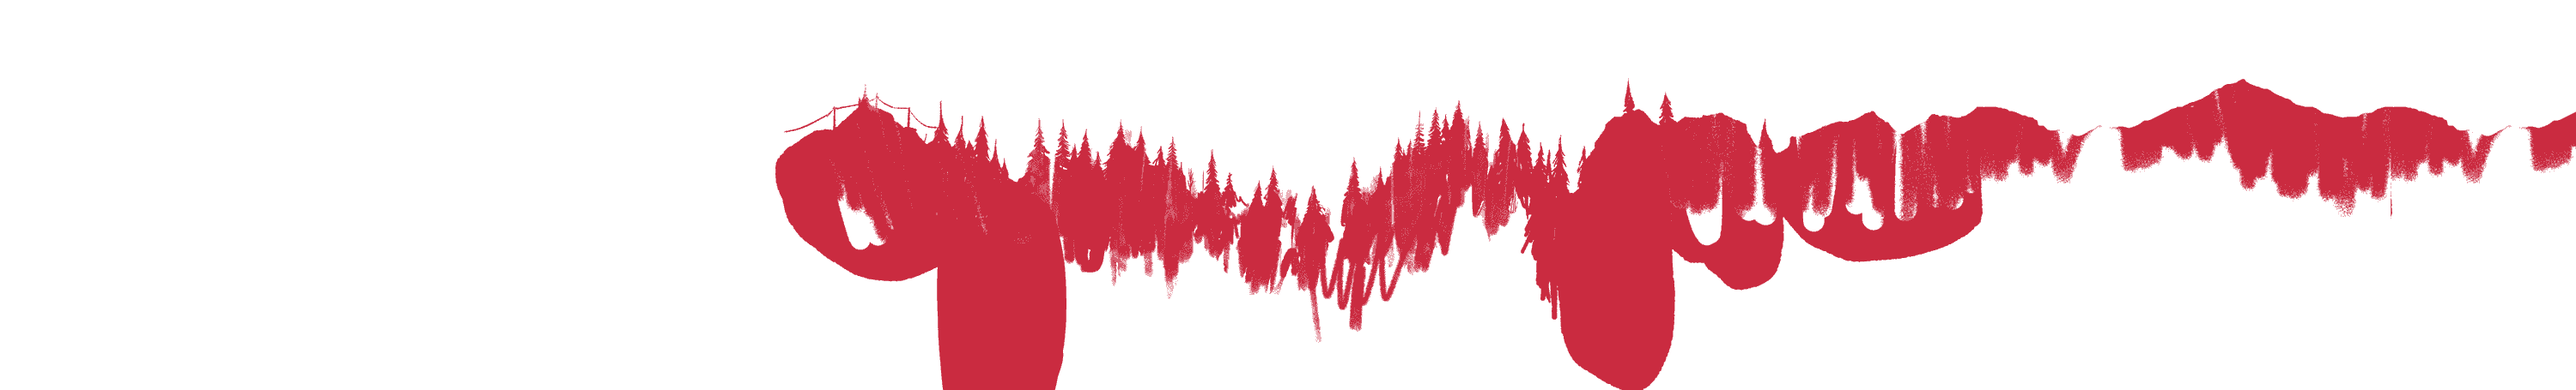
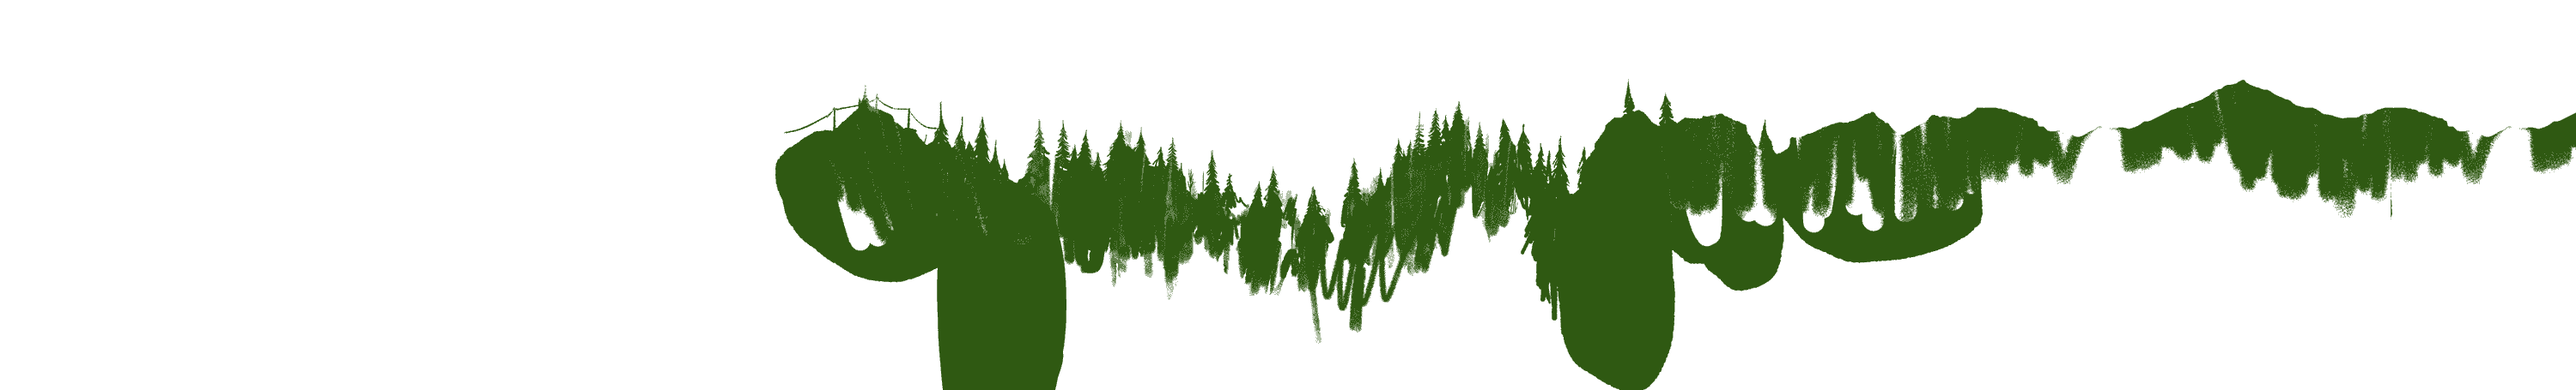
lol

Changed region(s): [[0.279, 0.2154, 1.0, 1.0]]

diff --git a/index.html b/index.html
@@ -76,12 +76,13 @@
 		</div>
 		<div class="collapse navbar-collapse">
 			<ul class="nav navbar-nav navbar-right">
+				<li><a href="#parallax" class="smoothScroll"></a></li>
 				<li><a href="#home" class="smoothScroll">HOME</a></li>
-				<li><a href="#about" class="smoothScroll">ABOUT</a></li>
-				<li><a href="#team" class="smoothScroll">TEAM</a></li>
+				<li><a href="#about" class="smoothScroll">FEATURES</a></li>
+				<li><a href="#team" class="smoothScroll">EQUIPMENT</a></li>
 				<li><a href="#memes" class="smoothScroll">IMAGES</a></li>
-				<li><a href="#download" class="smoothScroll">DOWNLOAD PDF</a></li>
 				<li><a href="#media" class="smoothScroll">WHY?</a></li>
+				<li><a href="#download" class="smoothScroll">DOWNLOAD PDF</a></li>
 				<li><a href="#contact" class="smoothScroll">SUPPORT</a></li>
 			</ul>
 		</div>
@@ -117,7 +118,7 @@
 	  					<div class="parallax__cover">
 								<div class="center" align = "center">
 									<h3>GROUP 6</h3>
-									<h1>VISTA -HILLS</h1>
+									<h1>VISTA - HILLS</h1>
 									<hr>
 									<h3><i>"Living and learning in a 21<sup>st</sup> century cultureof innovation and collaboration,</i></h3>
 									<h3><i> with a foundation of solid character and strong community."</i></h3>
@@ -137,8 +138,8 @@
 			<div class="col-md-12 col-sm-12">
 				<div align = "center" class="section-title">
 					<strong>01</strong>
-					<h1 align = "center" class="heading bold">Innovating the field of playground design.</h1>
-					<hr>
+					<h1 align = "center" class="heading bold">Key Features</h1>
+					<hr algin = "left">
 				</div>
 			</div>
 			<div class="col-lg-4 col-md-4 col-sm-4 wow fadeInUp" data-wow-delay="0.25s">
@@ -150,31 +151,31 @@
 
 			</div>
 			<div class="col-lg-4 col-md-4 col-sm-4 wow fadeInUp" data-wow-delay="0.5s">
-				<i class="icon-mobile medium-icon"></i>
+				<i class="icon-cloud medium-icon"></i>
 					<h3>DISRUPTIVE </h3>
 					<hr>
 					<p>Unlike anything seen before.</p>
 			</div>
 			<div class="col-lg-4 col-md-4 col-sm-4 wow fadeInUp" data-wow-delay="0.75s">
-				<i class="icon-laptop medium-icon"></i>
+				<i class="icon-cloud medium-icon"></i>
 					<h3>UNPARALLELED QUALITY</h3>
 					<hr>
 					<p>Only the best of the best materials.Sourced from the best companies.</p>
 			</div>
 			<div class="col-lg-4 col-md-4 col-sm-4 wow fadeInUp" data-wow-delay="1s">
-				<i class="icon-compass medium-icon"></i>
+				<i class="icon-cloud medium-icon"></i>
 					<h3>MORAL COMPASS</h3>
 					<hr>
 					<p>Adheres to all CSA and Waterloo School Board guidelines.</p>
 			</div>
 				<div class="col-lg-4 col-md-4 col-sm-4 wow fadeInUp" data-wow-delay="1.25s">
-					<i class="icon-chat medium-icon"></i>
+					<i class="icon-cloud medium-icon"></i>
 					<h3>SOCIAL MEDIA</h3>
 					<hr>
 					<p>Keeping you up to date with our website.</p>
 				</div>
 			<div class="col-lg-4 col-md-4 col-sm-4 wow fadeInUp" data-wow-delay="1.5s">
-				<i class="icon-browser medium-icon"></i>
+				<i class="icon-cloud medium-icon"></i>
 					<h3>DISRUPTIVE COMMUNITY</h3>
 					<hr>
 					<p>Disrupting the current trend of typical playgrounds.</p>
@@ -195,15 +196,23 @@
 			<div class="col-md-12 col-sm-12">
 				<div align = "center" class="section-title">
 					<strong>02</strong>
-					<h1 align = "center" class="heading bold">TALENTED INNOVATORS</h1>
+					<h1 align = "center" class="heading bold">Equipment</h1>
 					<hr>
 				</div>
 			</div>
 			<div class="col-md-3 col-sm-6 wow fadeIn" data-wow-delay="0.9s">
 				<div class="team-wrapper">
-					<img src="images/portfolio-img3.jpg" class="img-responsive" alt="team img">
+					<img src="images/saddlespinner.jpg" class="img-responsive" alt="team img">
 						<div class="team-des">
-							<h4><a href=".html">Stephen</a></h4>
+							<h4><a href = "https://www.playlsi.com/en/commercial-playground-equipment/playground-components/saddle-spinner">Saddle Spinner</a></h4>
+							<h3>Zhao</h3>
+							<h3>Zhao</h3>
+							<h3>Zhao</h3>
+							<h3>Zhao</h3>
+							<h3>Zhao</h3>
+							<h3>Zhao</h3>
+							<h3>Zhao</h3>
+							<h3>Zhao</h3>
 							<h3>Zhao</h3>
 							<hr>
 						</div>
@@ -211,9 +220,9 @@
 			</div>
 			<div class="col-md-3 col-sm-6 wow fadeIn" data-wow-delay="1.3s">
 				<div class="team-wrapper">
-					<img src="images/portfolio-img1.jpg" class="img-responsive" alt="team img">
+					<img src="images/spintree.jpg" class="img-responsive" alt="team img">
 						<div class="team-des">
-							<h4><a href=".html">Aaron</a></h4>
+							<h4><a href="http://www.hendersonplay.ca/componentsDetails.php?module=95-200-080#">Cone Roundabout</a></h4>
 							<h3>Dai</h3>
 							<hr>
 						</div>
@@ -281,7 +290,7 @@
            				 </div>
 
            				 <div class="iso-box photoshop col-lg-4 col-md-4 col-sm-6">
-           				 	<a href="playground/garden.jpg"" data-lightbox-gallery="memes-gallery"><img src="playground/garden.jpg" alt="portfolio img"></a>
+           				 	<a href="playground/garden.jpg" data-lightbox-gallery="memes-gallery"><img src="playground/garden.jpg" alt="portfolio img"></a>
            				 </div>
 
            			</div>
@@ -292,75 +301,13 @@
 		</div>
 	</div>
 </div>
-
-<!-- downlaod section -->
-<section id="download">
-	<div class="container">
-		<div class="row">
-			<div class="col-md-12 col-sm-12 text-center">
-				<div align = "center" class="section-title">
-					<strong>04</strong>
-					<h1 class="heading bold">DOWNLOAD </h1>
-					<hr>
-				</div>
-			</div>
-			<div class="col-md-4 col-sm-6">
-				<div class="plan plan-one wow bounceIn" data-wow-delay="0.3s">
-					<div class="plan_title">
-						<i class="icon-desktop medium-icon"></i>
-						<h3>WINDOWS</h3>
-						<h2>Available <span>now!</span></h2>
-					</div>
-					<ul>
-            <li>For Vista-Hills</li>
-						<li>Cutting edge innovation</li>
-						<li>Disruptive</li>
-            <li>PDF compatability required</li>
-					</ul>
-
-						<form method="get" action=".html">
-							<button class="btn btn-warning" type="submit">Download!</button>
-						</form>
-
-				</div>
-			</div>
-			<div class="col-md-4 col-sm-6">
-				<div class="plan plan-two wow bounceIn" data-wow-delay="0.3s">
-					<div class="plan_title">
-						<i class="icon-genius medium-icon"></i>
-						<h3>MAC</h3>
-						<h2>Coming <span>soon!</span></h2>
-					</div>
-					<form method="get" action="download.html">
-						<button class="btn btn-warning" type="submit">Download!</button>
-					</form>
-
-				</div>
-			</div>
-			<div class="col-md-4 col-sm-6">
-				<div class="plan plan-three wow bounceIn" data-wow-delay="0.3s">
-					<div class="plan_title">
-						<i class="icon-mobile medium-icon"></i>
-						<h3>Mobile</h3>
-						<h2>Coming <span>soon!</span></h2>
-					</div>
-					<form method="get" action="download.html">
-						<button class="btn btn-warning" type="submit">Download!</button>
-					</form>
-
-				</div>
-			</div>
-		</div>
-	</div>
-</section>
-
-<!-- merch and goodies section -->
+<!-- media -->
 <section id="media">
 	<div class="container">
 		<div class="row">
 			<div class="col-md-12 col-sm-12 text-center">
 				<div class="section-title">
-					<strong>05</strong>
+					<strong>04</strong>
 					<h1 class="heading bold">WHY?</h1>
 					<hr>
 				</div>
@@ -389,6 +336,34 @@
 						<p>Never getting old.
 						</p>
 					</div>
+				</div>
+			</div>
+		</div>
+	</div>
+</section>
+
+<!-- downlaod section -->
+<section id="download">
+	<div class="container">
+		<div class="row">
+			<div class="col-md-12 col-sm-12 text-center">
+				<div align = "center" class="section-title">
+					<strong>05</strong>
+					<h1 class="heading bold">DOWNLOAD </h1>
+					<hr>
+				</div>
+			</div>
+			<div class="col-md-12 col-sm-12 text-center">
+				<div class="plan plan-two wow bounceIn" data-wow-delay="0.3s">
+					<div class="plan_title">
+						<i class="icon-mobile medium-icon"></i>
+						<h3>Preliminary Report</h3>
+						<h2>Download PDF <span></span></h2>
+					</div>
+					<form method="get" action="download.html">
+						<button class="btn btn-warning" type="submit">Download!</button>
+					</form>
+				</div>
 				</div>
 			</div>
 		</div>

diff --git a/css/style.css b/css/style.css
@@ -289,7 +289,7 @@ home section
   -ms-flex-align: center;
       align-items: center;
   height: 100vh;
-  text-align: center;
+  text-align: left;
 }
 #home h1 {
   font-size: 40px;
@@ -410,6 +410,7 @@ team section
 #team .col-md-3 {
   padding-top: 20px;
   padding-bottom: 20px;
+  height: 500px;
 }
 #team .team-wrapper {
   overflow: hidden;
@@ -549,15 +550,18 @@ pricing section
 }
 #pricing h2 {
   font-size: 52px;
+  text-align: center;
 }
 #pricing h3 {
   font-size: 16px;
+  text-align: center;
 }
 #pricing .plan {
   box-shadow: 0px 2px 8px 0px rgba(50, 50, 50, 0.20);
   padding-top: 40px;
   padding-bottom: 80px;
   margin-bottom: 32px;
+  text-align: center;
 }
 #pricing .plan span {
 	font-size: 16px;
@@ -602,6 +606,8 @@ pricing section
 }
 #pricing .plan-two .btn {
   background-color: #ffa400;
+  position: relative;
+  text-align: center;
 }
 #pricing .plan-three .btn {
   background-color: #009988;

diff --git a/css/parallax.css b/css/parallax.css
@@ -41,7 +41,7 @@ display: none;
 }
 
 .parallax__cover{
-  background: #2D112B;
+  background: #0b1308;
   position: absolute;
   top: 100%;
   left: 0;
